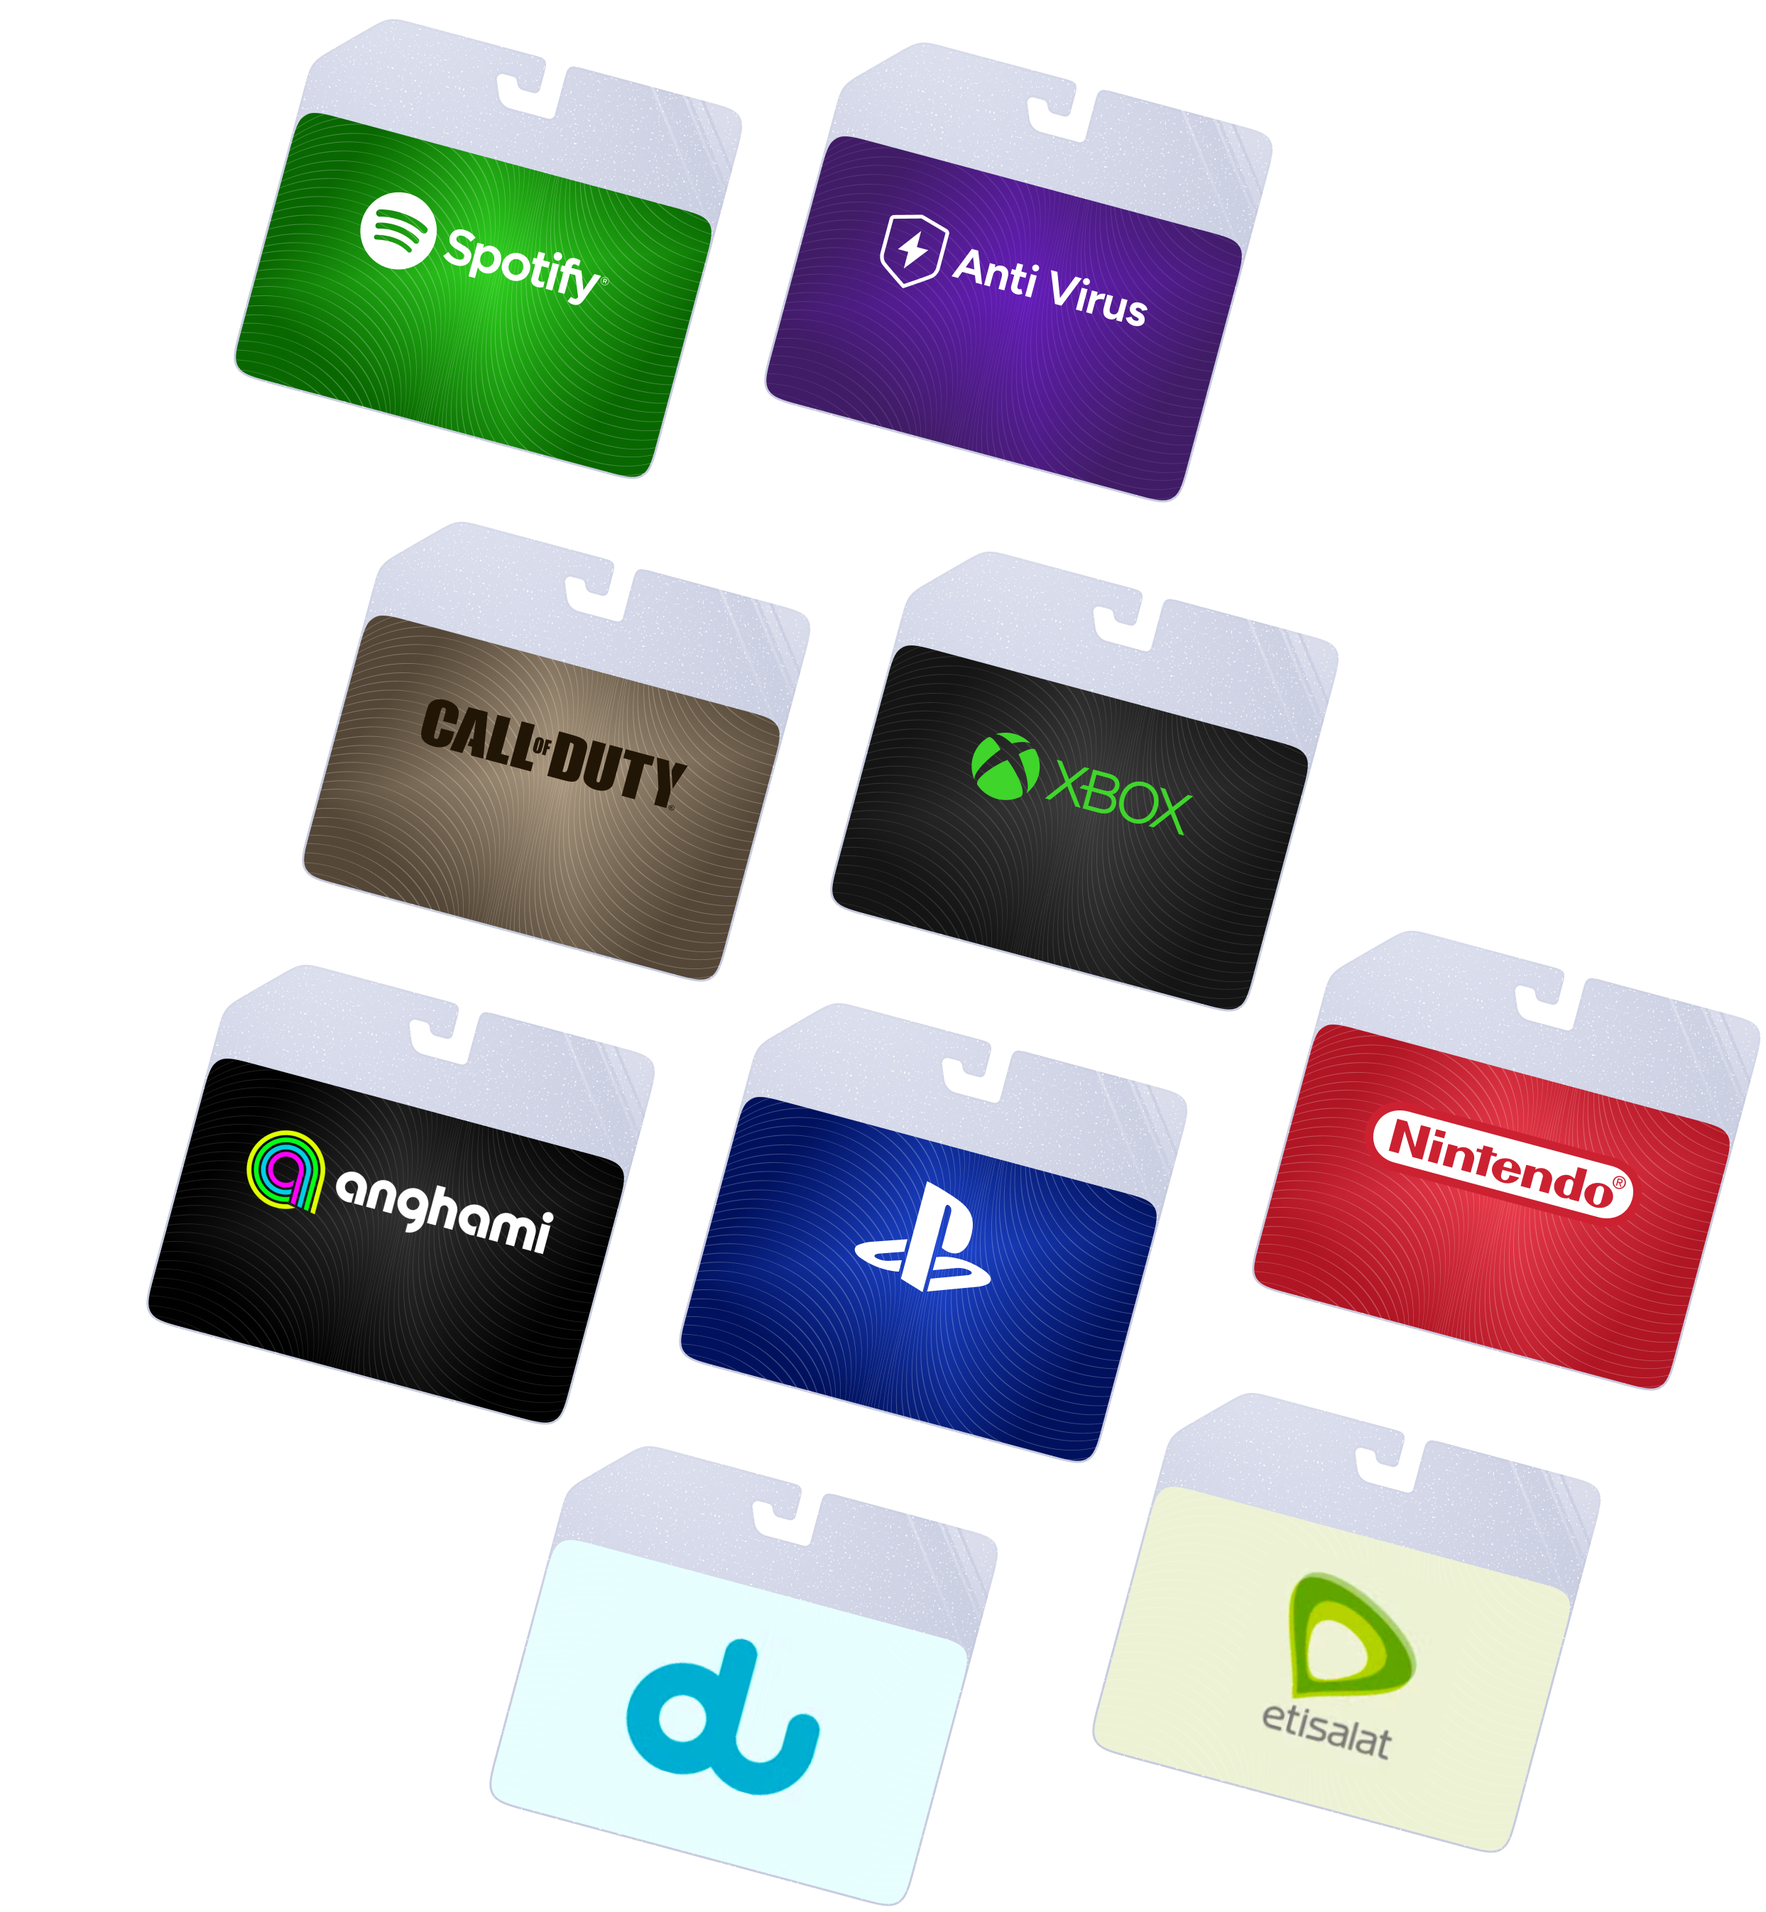
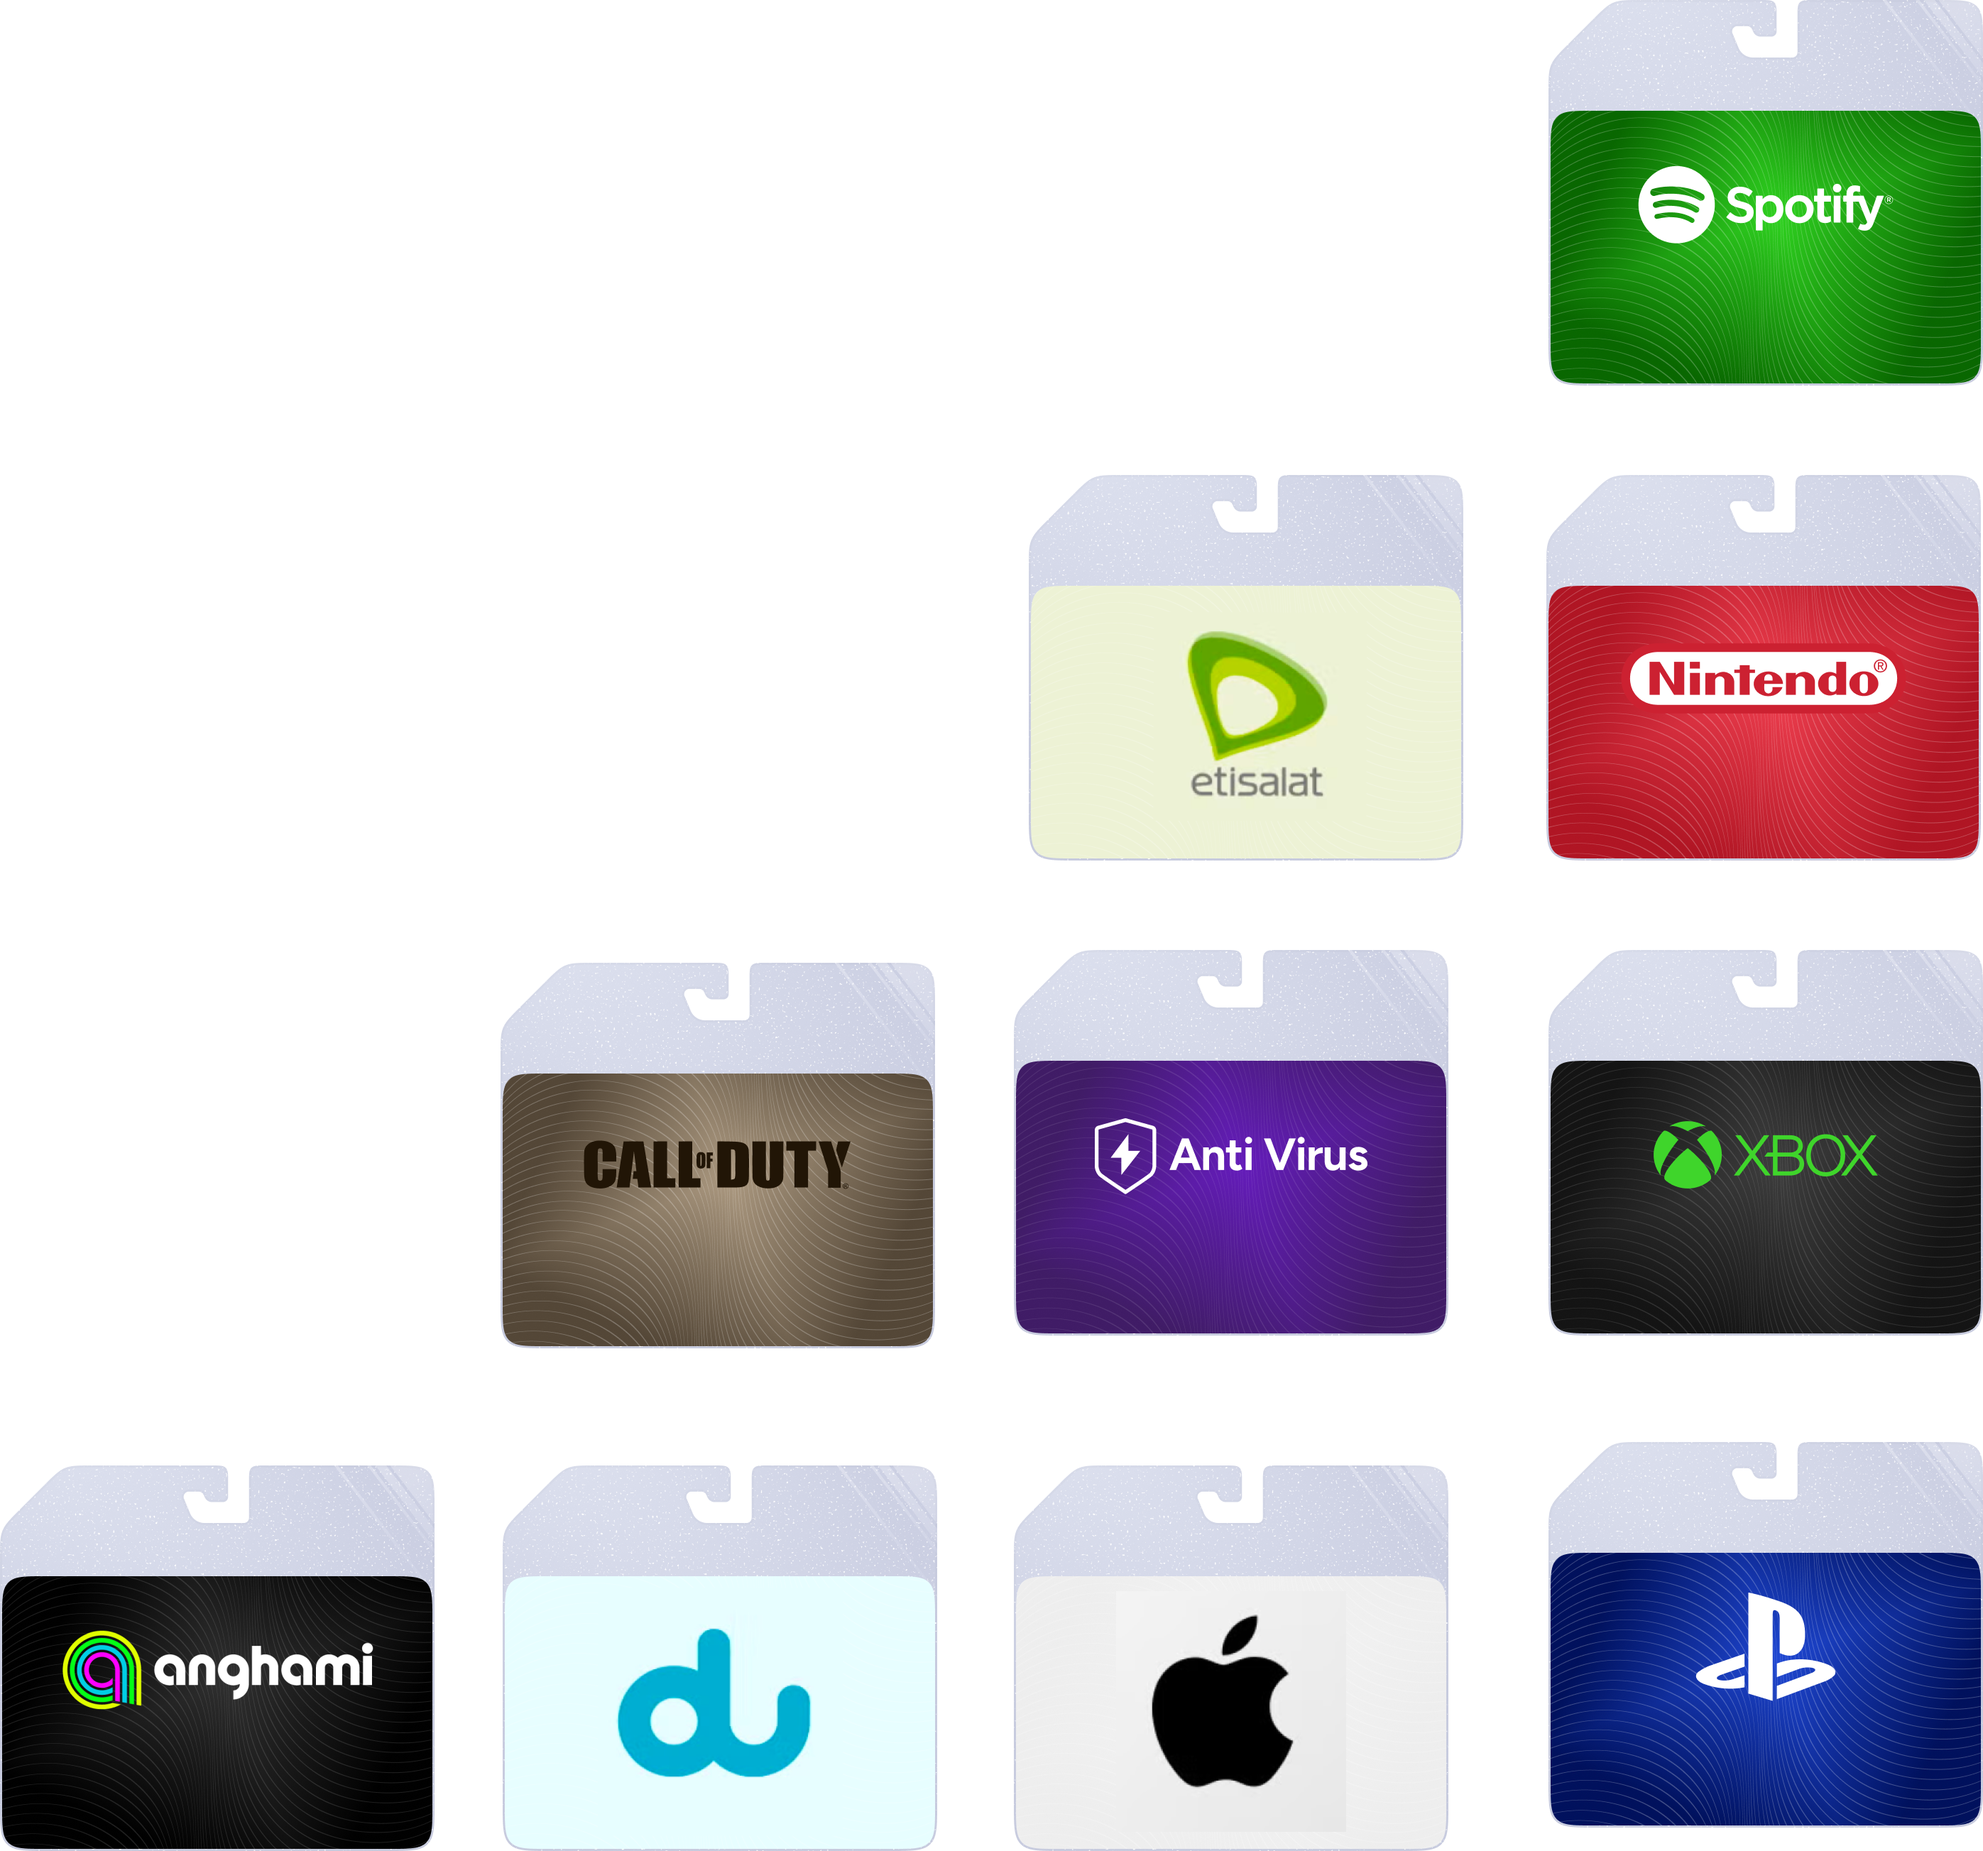
Update the cover artwork and let it run larger
The new render steps the cards down a diagonal and carries an empty
quarter of its own, so it is anchored to the right edge rather than
sharing the row: its blank corner overlaps the text column while the
cards stay clear of the type, which buys them real size.

diff --git a/index.html b/index.html
@@ -203,16 +203,16 @@ input{color:var(--tx)} input::placeholder{color:var(--tx3)}
 /* ==================================================================== */
 /*  COVER — dark bento                                                 */
 /* ==================================================================== */
-/* the cards sit to the right of the title, the text takes what is left */
-.cover{flex-direction:row;align-items:center;justify-content:space-between;
-  gap:clamp(16px,2.6vw,52px);position:relative;overflow:hidden}
-.cover-in{flex:1 1 auto;min-width:0;padding-left:clamp(26px,5vw,72px);
-  position:relative;z-index:2}
-.cover-art{flex:none;max-width:min(38%,560px);max-height:84%;width:auto;height:auto;
-  object-fit:contain;margin-right:clamp(12px,2.6vw,48px);
-  filter:drop-shadow(0 30px 60px rgba(0,0,0,.55));position:relative;z-index:2}
-@media (max-width:900px){ .cover-art{display:none}
-  .cover-in{padding-right:clamp(20px,5vw,40px)} }
+/* The artwork carries its own empty quarter, so it is anchored to the right
+   edge and allowed to run large — its blank corner overlaps the text column
+   harmlessly while the cards themselves stay clear of the type. */
+.cover{justify-content:center;position:relative;overflow:hidden}
+.cover-in{position:relative;z-index:2;width:100%;
+  padding:0 clamp(26px,5vw,72px);max-width:min(62%,880px)}
+.cover-art{position:absolute;right:0;top:50%;transform:translateY(-50%);
+  max-height:94%;max-width:58%;width:auto;height:auto;object-fit:contain;
+  filter:drop-shadow(0 30px 60px rgba(0,0,0,.55));z-index:1;pointer-events:none}
+@media (max-width:900px){ .cover-art{display:none} .cover-in{max-width:100%} }
 .cover .t-top{display:flex;gap:10px;flex-wrap:wrap;margin-bottom:clamp(18px,3vh,34px)}
 .t-pill{display:inline-flex;align-items:center;gap:7px;font-family:var(--mono);font-size:10.5px;
   letter-spacing:.16em;text-transform:uppercase;font-weight:600;color:#fff;
